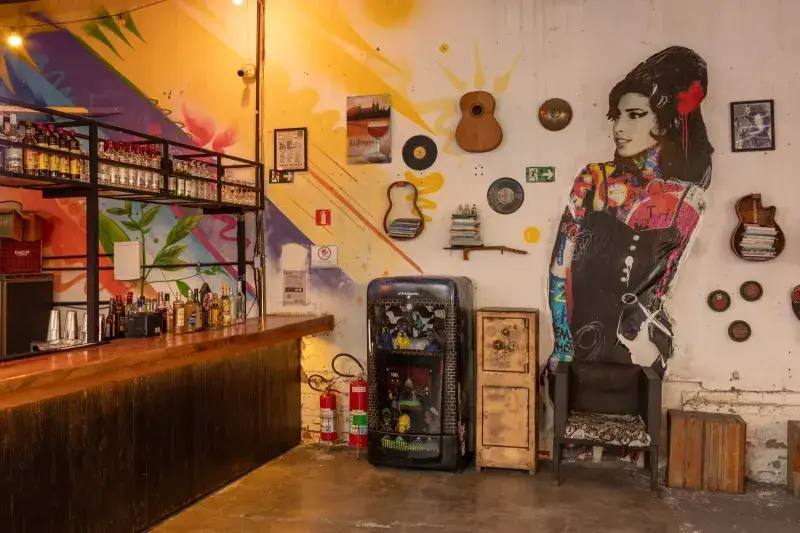
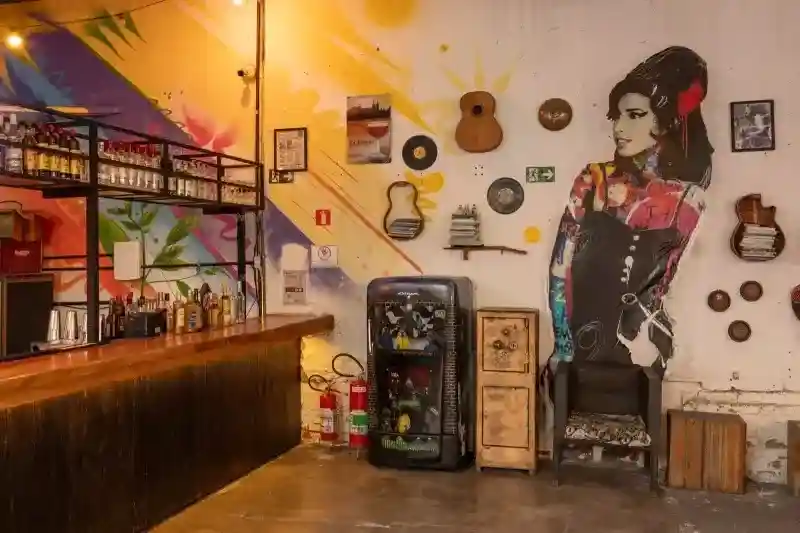
Optimize PageSpeed: compress hero images, fix a11y contrast & heading order
- Hero images recompressed (45KB→21KB, 75KB→44KB) for smaller LCP payload
- Remove saturate(.85) CSS filter from hero to reduce render delay
- Fix footer contrast: rgba(255,255,255,.4) → .6 for WCAG 4.5:1 ratio
- Fix heading order: footer h4 → h3 to maintain sequential hierarchy

diff --git a/public/index.html b/public/index.html
@@ -75,7 +75,7 @@
   <noscript><link href="https://fonts.googleapis.com/css2?family=Bebas+Neue&family=Poppins:wght@400;500;600;700&family=Sedgwick+Ave&display=swap" rel="stylesheet" /></noscript>
 
   <style>
-:root{--black:#000;--black-soft:#1a1a1a;--white:#fff;--cream:#F5EDDC;--cream-light:#FAF7F0;--cream-dim:#E8DCC8;--violet:#4f1964;--violet-deep:#2d0d3a;--violet-soft:#8a3ea9;--violet-glow:#c89dd8;--text-dark:#1a1a1a;--text-muted:#555;--font-display:'Bebas Neue','Impact',sans-serif;--font-body:'Poppins',system-ui,-apple-system,sans-serif;--font-script:'Sedgwick Ave',cursive;--container:1280px;--gap:clamp(16px,2vw,24px);--radius:8px;--radius-lg:16px;--transition:280ms cubic-bezier(.2,.8,.2,1);--bottom-nav-h:64px}*,*::before,*::after{box-sizing:border-box}html,body{margin:0;padding:0}html{scroll-behavior:auto;-webkit-font-smoothing:antialiased}body{font-family:var(--font-body);background:var(--cream-light);color:var(--text-dark);line-height:1.6;overflow-x:hidden;min-height:100dvh;padding-bottom:calc(var(--bottom-nav-h) + env(safe-area-inset-bottom,0px))}img{display:block;max-width:100%;height:auto}a{color:inherit;text-decoration:none}.container{width:100%;max-width:var(--container);margin:0 auto;padding:0 20px}.bottom-nav{position:fixed;bottom:0;left:0;right:0;z-index:200;display:flex;align-items:center;justify-content:space-around;height:var(--bottom-nav-h);background:#000;border-top:1px solid rgba(245,237,220,.1);padding-bottom:env(safe-area-inset-bottom,0);box-sizing:content-box}.bottom-nav-link{display:flex;flex-direction:column;align-items:center;justify-content:center;gap:3px;flex:1;color:rgba(255,255,255,.5);font-size:10px;font-weight:500;letter-spacing:.3px;-webkit-tap-highlight-color:transparent}.bottom-nav-link.active{color:var(--violet-glow)}.bottom-nav-link--cta{color:var(--violet-glow)}.site-header{position:fixed;top:0;left:0;right:0;z-index:100;display:flex;align-items:center;justify-content:space-between;padding:14px 20px}.site-header.scrolled{background:rgba(0,0,0,.92);padding:10px 20px;border-bottom:1px solid rgba(245,237,220,.1)}.brand{display:flex;align-items:center}.brand-logo{height:36px;width:auto;object-fit:contain}.brand-logo--black{display:none}.nav-toggle{display:flex;flex-direction:column;gap:5px;background:none;border:none;padding:8px;cursor:pointer;z-index:101}.nav-toggle span{display:block;width:24px;height:2px;background:var(--white)}.site-nav{display:none}.hero{position:relative;min-height:100vh;min-height:100dvh;display:flex;align-items:center;justify-content:center;overflow:hidden;background:var(--black)}.hero-photo{position:absolute;inset:0;z-index:1;overflow:hidden;transform-origin:center 55%}.hero-photo img{position:absolute;inset:-6% -6%;width:112%;height:112%;object-fit:cover;filter:brightness(.38) saturate(.85)}.hero-overlay{position:absolute;inset:0;z-index:2;pointer-events:none;background:radial-gradient(ellipse at center 60%,rgba(0,0,0,.15) 0%,rgba(0,0,0,.85) 100%),linear-gradient(180deg,rgba(0,0,0,.55) 0%,rgba(0,0,0,.1) 35%,rgba(0,0,0,.7) 100%)}.hero-flame{position:absolute;inset:0;width:100%;height:100%;z-index:3;opacity:.6;mix-blend-mode:screen;pointer-events:none}.hero-content{position:relative;z-index:6;text-align:center;padding:0 20px;max-width:1100px}.hero-eyebrow{display:inline-flex;align-items:center;gap:12px;font-size:10px;letter-spacing:3px;text-transform:uppercase;color:var(--cream-dim);margin:0 0 20px;font-weight:500}.hero-eyebrow .line{width:24px;height:1px;background:var(--violet-glow);display:inline-block}.hero-title{font-family:var(--font-display);font-size:clamp(40px,9vw,130px);line-height:.92;letter-spacing:-.5px;margin:0 0 24px;font-weight:400;color:var(--white);text-shadow:0 4px 28px rgba(0,0,0,.7)}.hero-title .word{display:inline-block;margin:0 .12em}.hero-title .word--accent{font-family:var(--font-script);font-weight:700;color:var(--violet-glow);letter-spacing:-1px;font-size:1em;font-style:italic}.hero-sub{font-size:clamp(14px,2.5vw,18px);color:rgba(255,255,255,.82);max-width:520px;margin:0 auto 32px;font-weight:300;line-height:1.6}.btn{display:inline-flex;align-items:center;gap:10px;padding:12px 24px;border-radius:999px;font-weight:600;font-size:14px;letter-spacing:.3px;border:1px solid transparent;cursor:pointer;position:relative;overflow:hidden}.btn-lg{padding:16px 32px;font-size:15px}.btn-primary{background:var(--violet);color:var(--white)}
+:root{--black:#000;--black-soft:#1a1a1a;--white:#fff;--cream:#F5EDDC;--cream-light:#FAF7F0;--cream-dim:#E8DCC8;--violet:#4f1964;--violet-deep:#2d0d3a;--violet-soft:#8a3ea9;--violet-glow:#c89dd8;--text-dark:#1a1a1a;--text-muted:#555;--font-display:'Bebas Neue','Impact',sans-serif;--font-body:'Poppins',system-ui,-apple-system,sans-serif;--font-script:'Sedgwick Ave',cursive;--container:1280px;--gap:clamp(16px,2vw,24px);--radius:8px;--radius-lg:16px;--transition:280ms cubic-bezier(.2,.8,.2,1);--bottom-nav-h:64px}*,*::before,*::after{box-sizing:border-box}html,body{margin:0;padding:0}html{scroll-behavior:auto;-webkit-font-smoothing:antialiased}body{font-family:var(--font-body);background:var(--cream-light);color:var(--text-dark);line-height:1.6;overflow-x:hidden;min-height:100dvh;padding-bottom:calc(var(--bottom-nav-h) + env(safe-area-inset-bottom,0px))}img{display:block;max-width:100%;height:auto}a{color:inherit;text-decoration:none}.container{width:100%;max-width:var(--container);margin:0 auto;padding:0 20px}.bottom-nav{position:fixed;bottom:0;left:0;right:0;z-index:200;display:flex;align-items:center;justify-content:space-around;height:var(--bottom-nav-h);background:#000;border-top:1px solid rgba(245,237,220,.1);padding-bottom:env(safe-area-inset-bottom,0);box-sizing:content-box}.bottom-nav-link{display:flex;flex-direction:column;align-items:center;justify-content:center;gap:3px;flex:1;color:rgba(255,255,255,.5);font-size:10px;font-weight:500;letter-spacing:.3px;-webkit-tap-highlight-color:transparent}.bottom-nav-link.active{color:var(--violet-glow)}.bottom-nav-link--cta{color:var(--violet-glow)}.site-header{position:fixed;top:0;left:0;right:0;z-index:100;display:flex;align-items:center;justify-content:space-between;padding:14px 20px}.site-header.scrolled{background:rgba(0,0,0,.92);padding:10px 20px;border-bottom:1px solid rgba(245,237,220,.1)}.brand{display:flex;align-items:center}.brand-logo{height:36px;width:auto;object-fit:contain}.brand-logo--black{display:none}.nav-toggle{display:flex;flex-direction:column;gap:5px;background:none;border:none;padding:8px;cursor:pointer;z-index:101}.nav-toggle span{display:block;width:24px;height:2px;background:var(--white)}.site-nav{display:none}.hero{position:relative;min-height:100vh;min-height:100dvh;display:flex;align-items:center;justify-content:center;overflow:hidden;background:var(--black)}.hero-photo{position:absolute;inset:0;z-index:1;overflow:hidden;transform-origin:center 55%}.hero-photo img{position:absolute;inset:-6% -6%;width:112%;height:112%;object-fit:cover;filter:brightness(.38)}.hero-overlay{position:absolute;inset:0;z-index:2;pointer-events:none;background:radial-gradient(ellipse at center 60%,rgba(0,0,0,.15) 0%,rgba(0,0,0,.85) 100%),linear-gradient(180deg,rgba(0,0,0,.55) 0%,rgba(0,0,0,.1) 35%,rgba(0,0,0,.7) 100%)}.hero-flame{position:absolute;inset:0;width:100%;height:100%;z-index:3;opacity:.6;mix-blend-mode:screen;pointer-events:none}.hero-content{position:relative;z-index:6;text-align:center;padding:0 20px;max-width:1100px}.hero-eyebrow{display:inline-flex;align-items:center;gap:12px;font-size:10px;letter-spacing:3px;text-transform:uppercase;color:var(--cream-dim);margin:0 0 20px;font-weight:500}.hero-eyebrow .line{width:24px;height:1px;background:var(--violet-glow);display:inline-block}.hero-title{font-family:var(--font-display);font-size:clamp(40px,9vw,130px);line-height:.92;letter-spacing:-.5px;margin:0 0 24px;font-weight:400;color:var(--white);text-shadow:0 4px 28px rgba(0,0,0,.7)}.hero-title .word{display:inline-block;margin:0 .12em}.hero-title .word--accent{font-family:var(--font-script);font-weight:700;color:var(--violet-glow);letter-spacing:-1px;font-size:1em;font-style:italic}.hero-sub{font-size:clamp(14px,2.5vw,18px);color:rgba(255,255,255,.82);max-width:520px;margin:0 auto 32px;font-weight:300;line-height:1.6}.btn{display:inline-flex;align-items:center;gap:10px;padding:12px 24px;border-radius:999px;font-weight:600;font-size:14px;letter-spacing:.3px;border:1px solid transparent;cursor:pointer;position:relative;overflow:hidden}.btn-lg{padding:16px 32px;font-size:15px}.btn-primary{background:var(--violet);color:var(--white)}
   </style>
 
   <link rel="stylesheet" href="css/style.css" media="print" onload="this.media='all'" />
@@ -797,13 +797,13 @@
         </div>
 
         <div class="footer-block">
-          <h4>Endereço</h4>
+          <h3>Endereço</h3>
           <p>Rua Javari, 112<br>Mooca · São Paulo</p>
           <a class="link-underline" href="#localizacao">Ver no mapa</a>
         </div>
 
         <div class="footer-block">
-          <h4>Contato</h4>
+          <h3>Contato</h3>
           <ul class="footer-links">
             <li><a href="https://wa.me/+551120811544" target="_blank" rel="noopener"><svg width="16" height="16" viewBox="0 0 24 24" fill="currentColor" style="vertical-align:-2px;margin-right:6px"><path d="M17.472 14.382c-.297-.149-1.758-.867-2.03-.967-.273-.099-.471-.148-.67.15-.197.297-.767.966-.94 1.164-.173.199-.347.223-.644.075-.297-.15-1.255-.463-2.39-1.475-.883-.788-1.48-1.761-1.653-2.059-.173-.297-.018-.458.13-.606.134-.133.298-.347.446-.52.149-.174.198-.298.298-.497.099-.198.05-.371-.025-.52-.075-.149-.669-1.612-.916-2.207-.242-.579-.487-.5-.669-.51-.173-.008-.371-.01-.57-.01-.198 0-.52.074-.792.372-.272.297-1.04 1.016-1.04 2.479 0 1.462 1.065 2.875 1.213 3.074.149.198 2.096 3.2 5.077 4.487.709.306 1.262.489 1.694.625.712.227 1.36.195 1.871.118.571-.085 1.758-.719 2.006-1.413.248-.694.248-1.289.173-1.413-.074-.124-.272-.198-.57-.347m-5.421 7.403h-.004a9.87 9.87 0 01-5.031-1.378l-.361-.214-3.741.982.998-3.648-.235-.374a9.86 9.86 0 01-1.51-5.26c.001-5.45 4.436-9.884 9.888-9.884 2.64 0 5.122 1.03 6.988 2.898a9.825 9.825 0 012.893 6.994c-.003 5.45-4.437 9.884-9.885 9.884m8.413-18.297A11.815 11.815 0 0012.05 0C5.495 0 .16 5.335.157 11.892c0 2.096.547 4.142 1.588 5.945L.057 24l6.305-1.654a11.882 11.882 0 005.683 1.448h.005c6.554 0 11.89-5.335 11.893-11.893a11.821 11.821 0 00-3.48-8.413z"/></svg>WhatsApp · (11) 2081-1544</a></li>
             <li><a href="https://instagram.com/javaripark" target="_blank" rel="noopener">Instagram · @javaripark</a></li>

diff --git a/public/css/style.css b/public/css/style.css
@@ -327,7 +327,7 @@ button, input, textarea { font: inherit; }
   height: 112%;
   object-fit: cover;
   transform: scale(1);
-  filter: brightness(.38) saturate(.85);
+  filter: brightness(.38);
   will-change: transform;
 }
 .hero-overlay {
@@ -1606,7 +1606,7 @@ button, input, textarea { font: inherit; }
   color: var(--cream);
 }
 
-.footer-block h4 {
+.footer-block h3 {
   font-family: var(--font-display);
   font-size: 16px;
   letter-spacing: 3px;
@@ -1642,7 +1642,7 @@ button, input, textarea { font: inherit; }
   padding: 6px 0;
   border-bottom: 1px solid rgba(255,255,255,.06);
 }
-.footer-hours li span:first-child { color: rgba(255,255,255,.45); letter-spacing: 1px; }
+.footer-hours li span:first-child { color: rgba(255,255,255,.6); letter-spacing: 1px; }
 
 .link-underline {
   font-size: 14px;
@@ -1663,7 +1663,7 @@ button, input, textarea { font: inherit; }
   gap: 12px;
   font-size: 12px;
   letter-spacing: 1px;
-  color: rgba(255,255,255,.4);
+  color: rgba(255,255,255,.6);
 }
 .footer-spacer { color: var(--violet-glow); }
 
